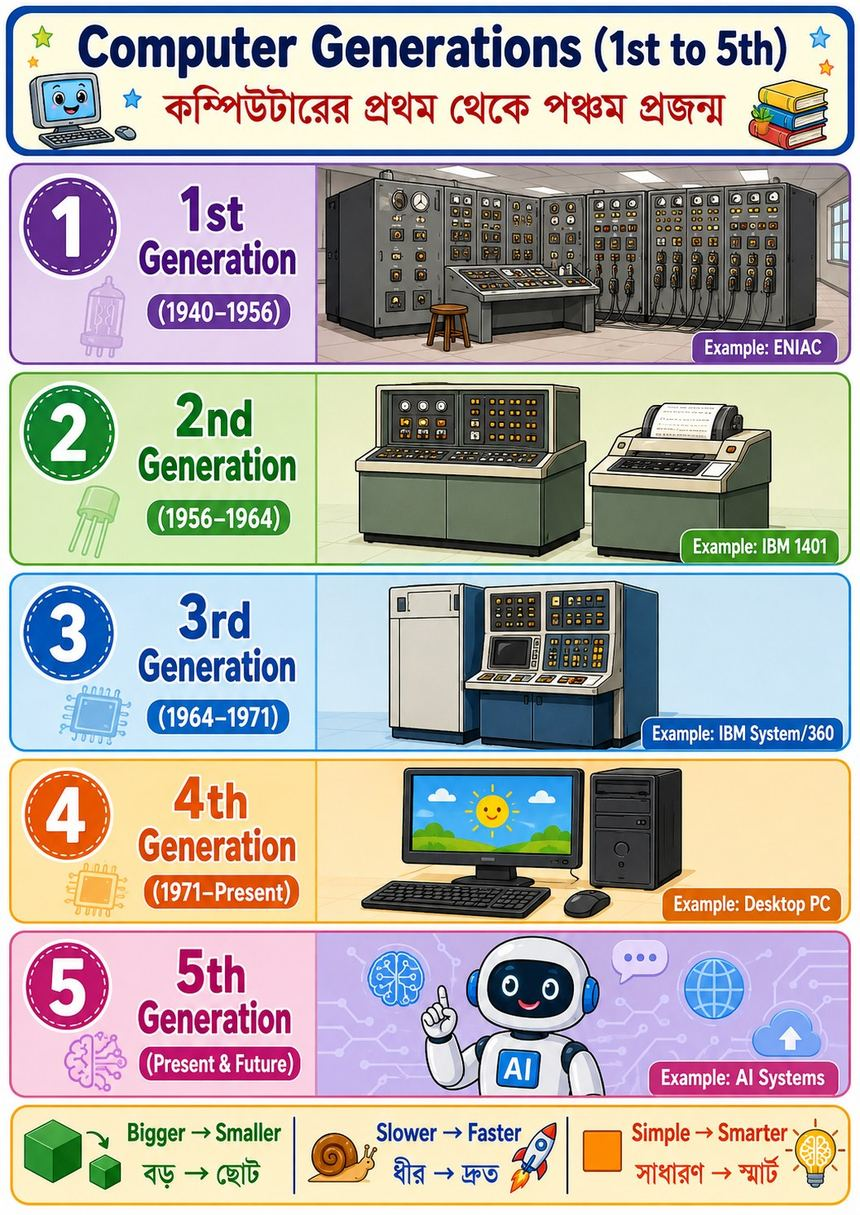
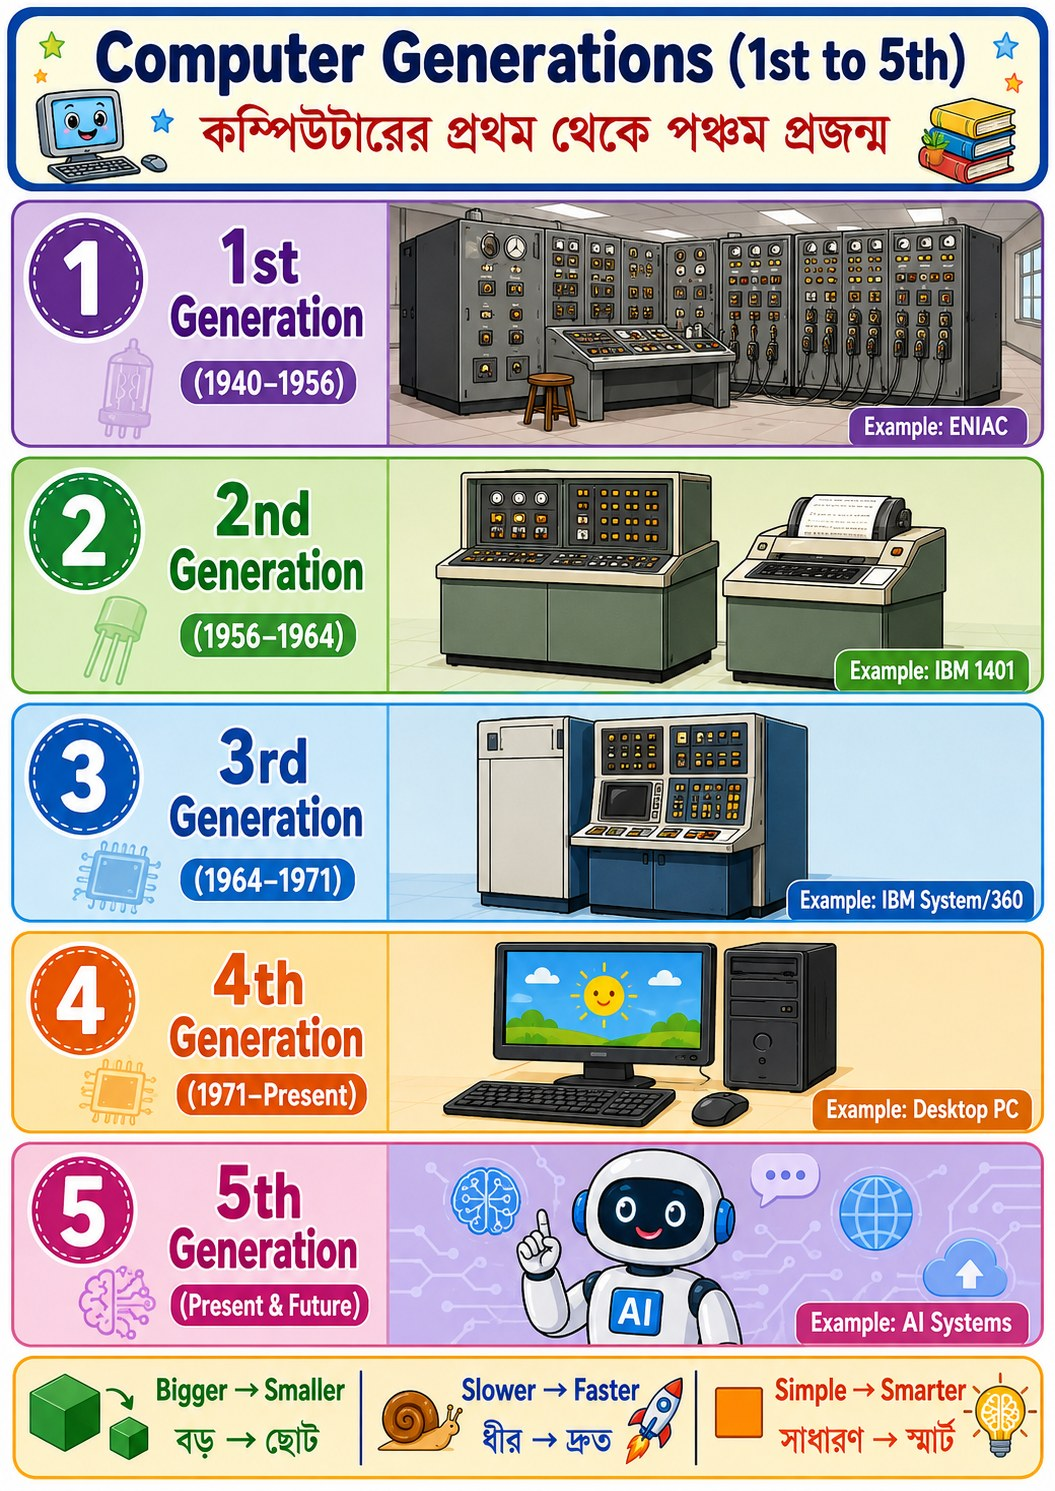
v1.1.0+22: replace full Class V visual poster pack

diff --git a/test/class5_phase82_full_visual_poster_pack_test.dart b/test/class5_phase82_full_visual_poster_pack_test.dart
@@ -1,0 +1,33 @@
+import 'dart:io';
+import 'package:flutter_test/flutter_test.dart';
+
+void main() {
+  test('Phase 8.2 full poster pack replaces every Class V visual', () {
+    const assets = <String>[
+      'computer_generations.png',
+      'ipo_flow.png',
+      'device_sorting.png',
+      'hardware_software.png',
+      'windows_desktop.png',
+      'files_folders.png',
+      'word_tools.png',
+      'paint3d_tools.png',
+      'scratch_interface.png',
+      'scratch_quiz_flow.png',
+      'internet_safety.png',
+      'human_vs_ai.png',
+    ];
+
+    for (final name in assets) {
+      final file = File('assets/visuals/class5/$name');
+      expect(file.existsSync(), isTrue, reason: name);
+      expect(file.lengthSync(), greaterThan(300000),
+          reason: '$name must be a real high-detail learning poster');
+    }
+
+    final generations =
+        File('assets/visuals/class5/computer_generations_visual_first.jpg');
+    expect(generations.existsSync(), isTrue);
+    expect(generations.lengthSync(), greaterThan(100000));
+  });
+}

diff --git a/CHANGELOG.md b/CHANGELOG.md
@@ -1,4 +1,7 @@
 ## 1.1.0+22 - Class V Deep Visual Learning Upgrade
+- Replaced the complete Class V visual pack with child-friendly, high-detail educational posters in one consistent visual language.
+- Updated Computer Generations, IPO flow, device categories, hardware/software, Windows desktop, files/folders, Word, Paint 3D, Scratch, Internet safety and Human-vs-AI visuals.
+- Existing 27 lesson mappings are preserved, so upgraded posters appear without breaking quizzes, labs, progress or assessments.
 - Added an additive deep-learning enrichment layer for all 27 Class V lessons across all 9 chapters.
 - Expanded Bengali-first conceptual explanations, English support, learning goals, examples, vocabulary, recaps and misconception checks.
 - Changed the lesson flow to visual-first: the learning image is shown before the long explanation.
